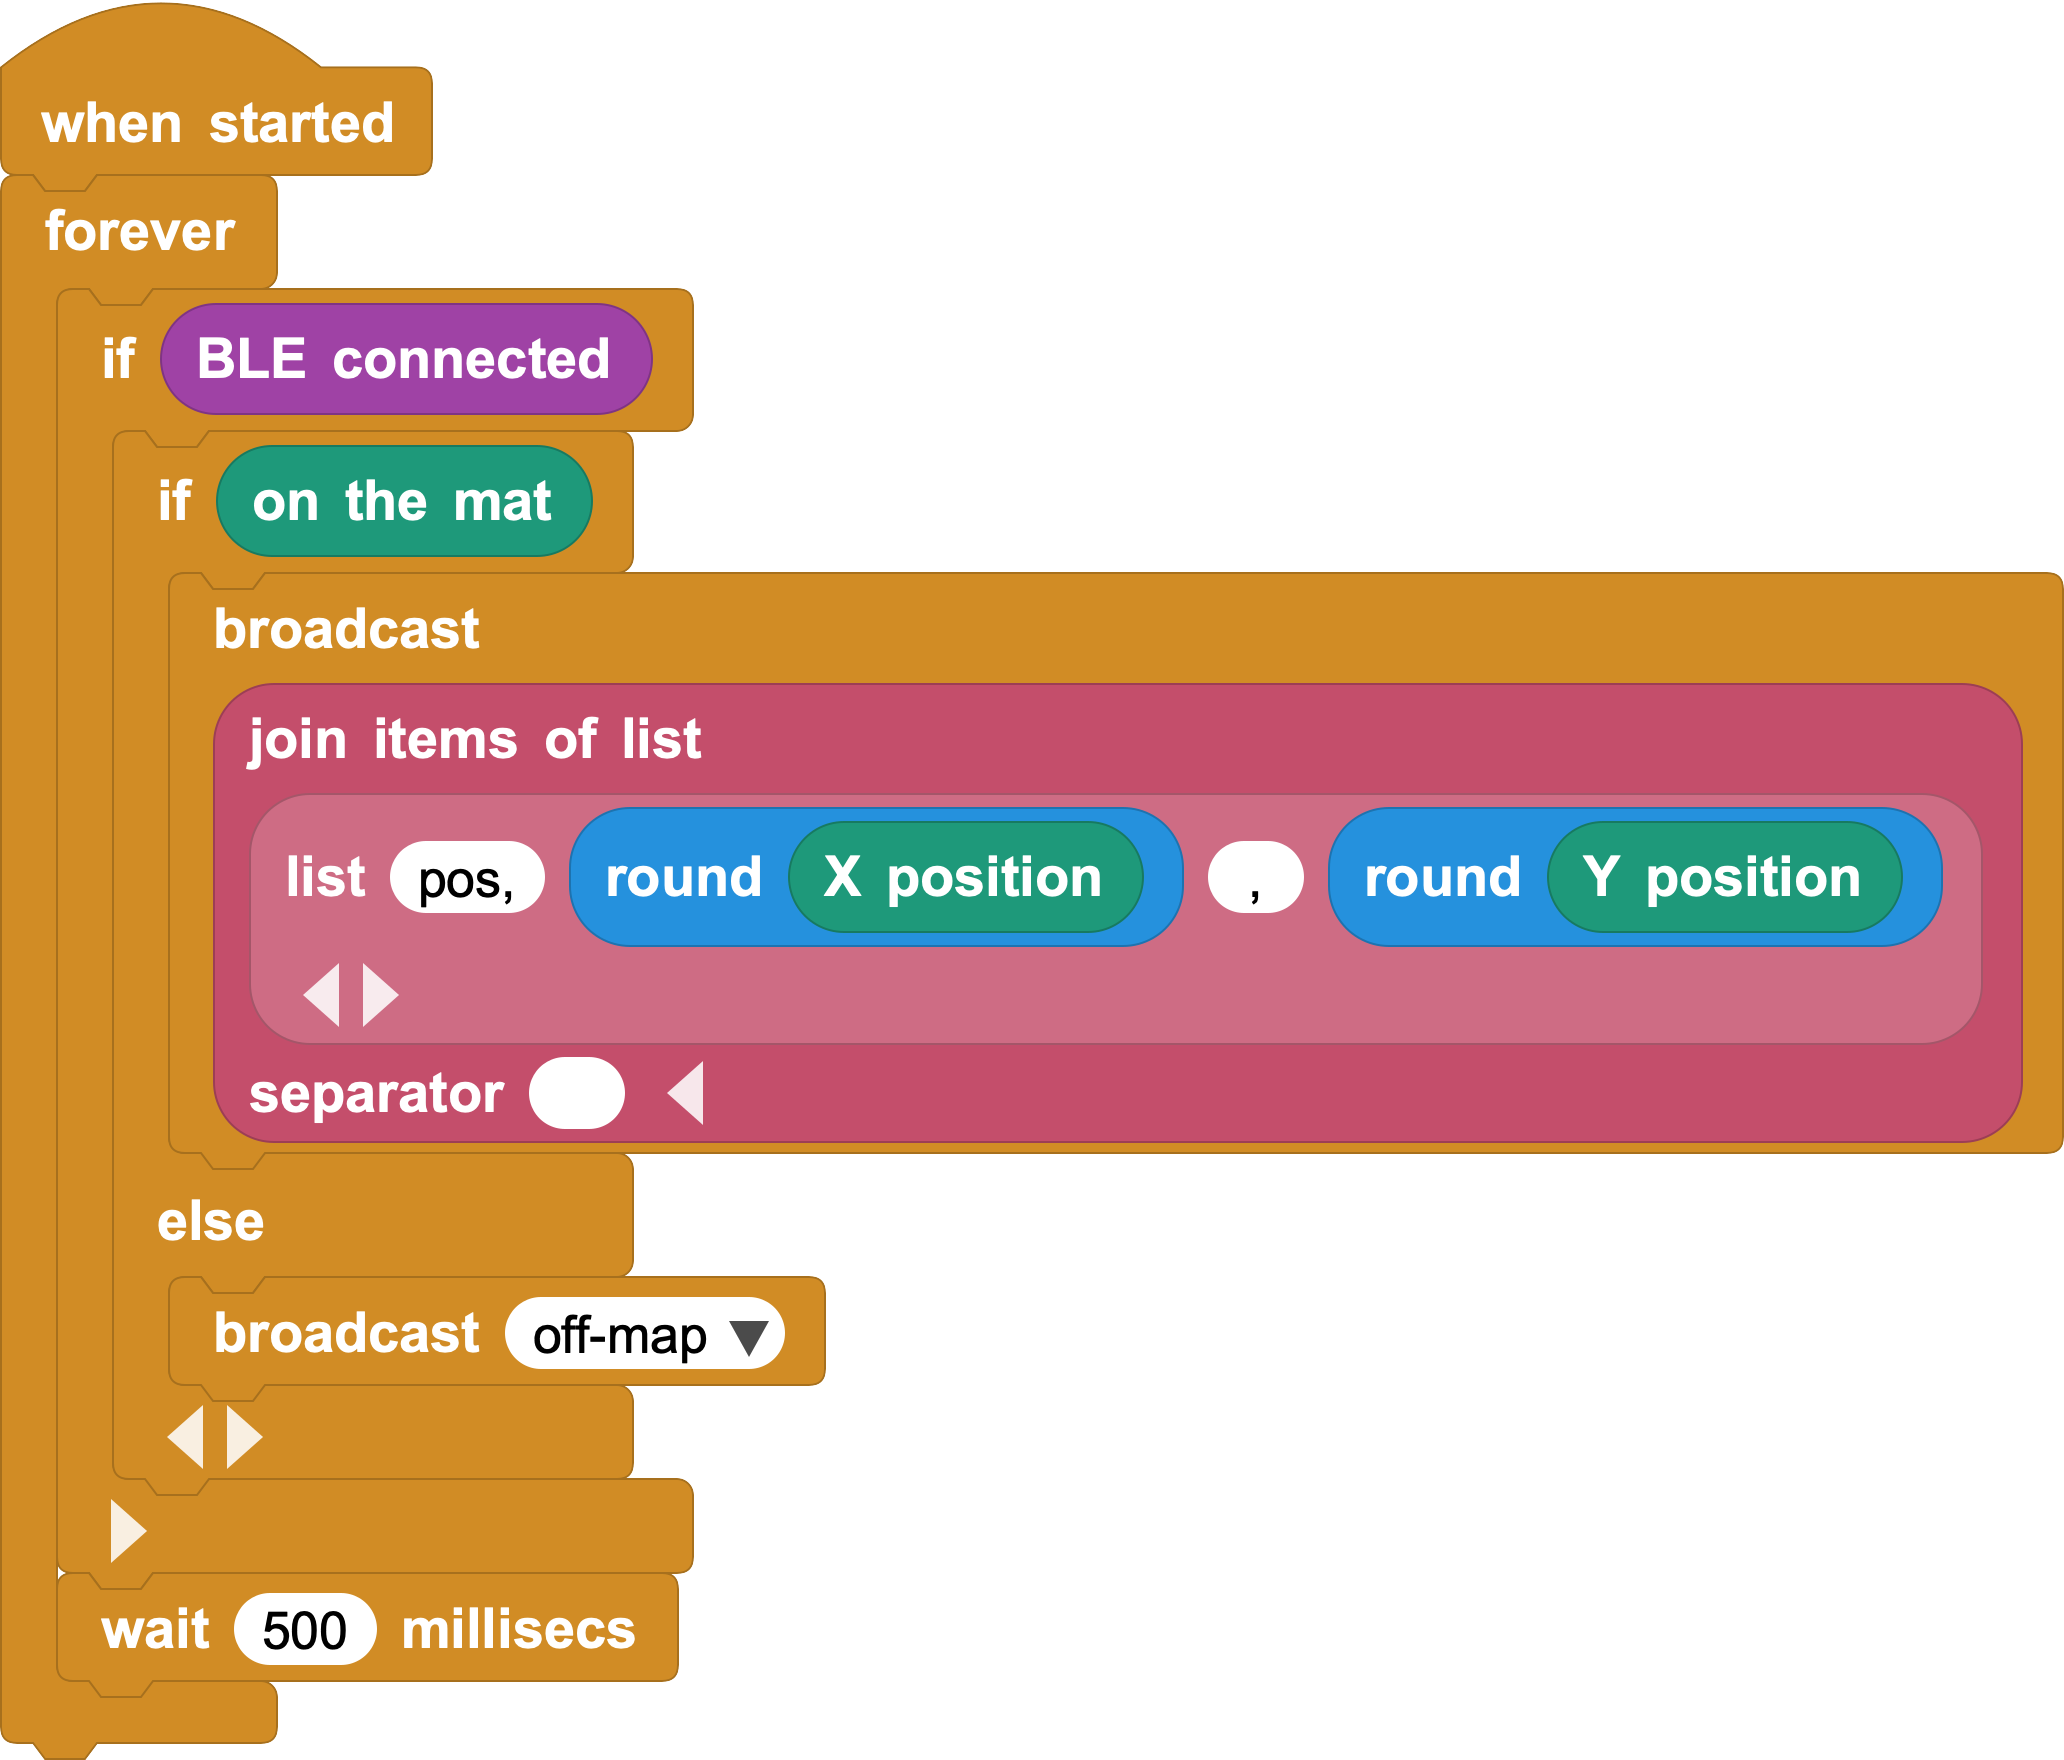
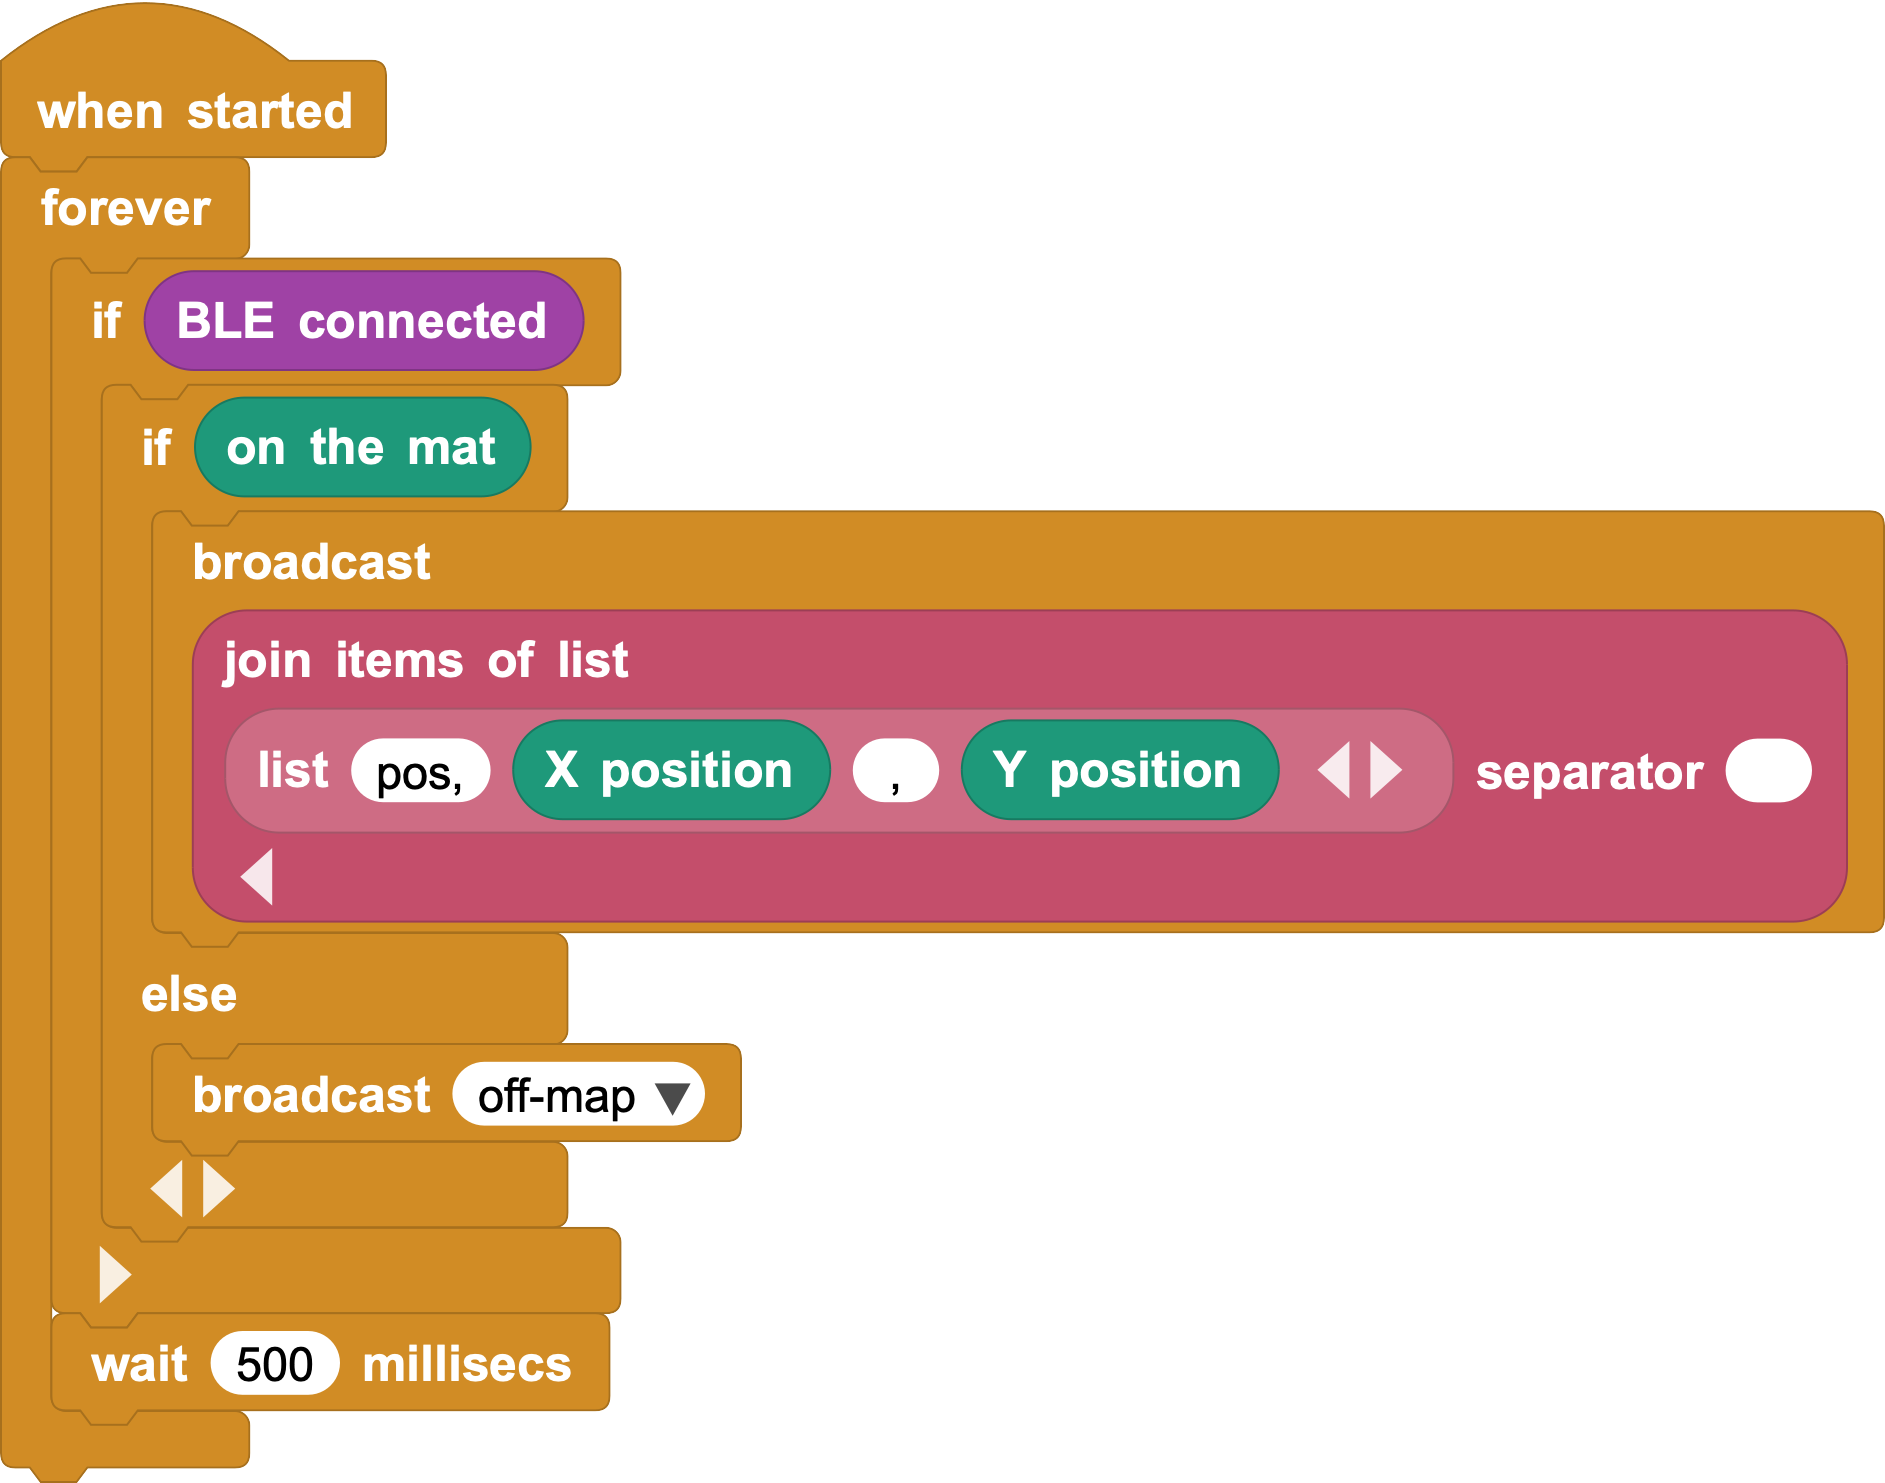
Fix App Inventor block exports and use production CoMap

Changed region(s): [[0.0, 0.031, 1.0, 0.9926], [0.1231, 0.0, 0.1538, 0.031]]

diff --git a/src/scripts/header.js b/src/scripts/header.js
@@ -6,6 +6,7 @@ var menuToggle = function() {
 
   let toggleButton = document.querySelector('.menu-toggle');
   let menu = document.querySelector('.menu');
+  if (!toggleButton || !menu) return;
   var menuVisible = false;
 
   toggleButton.addEventListener('click', function(e) {

diff --git a/data/activities/cocube_appinventor_02_maze_mirror/render-maze-map.py b/data/activities/cocube_appinventor_02_maze_mirror/render-maze-map.py
@@ -1,0 +1,32 @@
+import argparse
+from pathlib import Path
+from zipfile import ZipFile
+
+from PIL import Image
+
+
+activity = Path(__file__).resolve().parent
+files = activity / "files"
+source = files / "comaps-maze-map.png"
+phone = files / "maze-map.png"
+designer = files / "01-designer.png"
+
+parser = argparse.ArgumentParser()
+parser.add_argument("--archive", type=Path)
+args = parser.parse_args()
+
+if args.archive:
+    with ZipFile(args.archive) as archive:
+        source.write_bytes(archive.read(source.name))
+
+with Image.open(source) as image:
+    if image.size != (1000, 698):
+        raise ValueError(f"Unexpected CoMap size: {image.size}")
+    phone_image = image.crop((30, 31, 970, 666)).resize((300, 200), Image.Resampling.LANCZOS)
+    phone_image.save(phone)
+
+with Image.open(designer) as image:
+    if image.size != (1300, 940):
+        raise ValueError(f"Unexpected Designer screenshot size: {image.size}")
+    image.paste(phone_image, (401, 342))
+    image.save(designer)

diff --git a/data/activities/cocube_appinventor_02_maze_mirror/locales/en/index.md b/data/activities/cocube_appinventor_02_maze_mirror/locales/en/index.md
@@ -4,9 +4,9 @@ This time, show CoCube's real movement on the maze map on your phone. Move CoCub
 
 ### 1. Get the maze ready
 
-You will need CoCube, its maze CoMap, an Android phone, and your App Inventor and MicroBlocks projects from the previous activity. Put the CoMap on a flat surface with **A** near the top left. Start by moving CoCube **by hand**, not by pressing Go.
+You will need CoCube, the production maze CoMap, an Android phone, and your App Inventor and MicroBlocks projects from the previous activity. Put the CoMap on a flat surface with **A** near the top left. Start by moving CoCube **by hand**, not by pressing Go.
 
-Here is the [maze image for the phone](maze-map.png). It is 300 × 200 pixels. On this CoMap, X goes from 0 to 300 across the page and Y goes from 0 to 200 down the page. App Inventor's Canvas also starts counting at the top left. That means you can draw a dot using CoCube's `(X, Y)`. Turn the CoMap around, though, and the dot will no longer match CoCube's real position.
+Here is the [maze image for the phone](maze-map.png), cropped from the [production maze map](comaps-maze-map.png) to match its coordinates. It is 300 × 200 pixels. On this CoMap, X goes from 0 to 300 across the page and Y goes from 0 to 200 down the page. App Inventor's Canvas also starts counting at the top left. That means you can draw a dot using CoCube's `(X, Y)`. Turn the CoMap around, though, and the dot will no longer match CoCube's real position.
 
 ### 2. Make CoCube report its position
 
@@ -14,7 +14,7 @@ Open your CoCube program in MicroBlocks. Keep the `smile` and `go` receivers. Ad
 
 ![MicroBlocks script that sends CoCube's position every half-second while it is on the mat](scriptImagePosition.png)
 
-When CoCube is on the mat and connected, it sends a message like `pos,125,62` every 500 milliseconds. `pos` means position; the next two numbers are X and Y. The commas help the phone separate the three parts. Off the mat, CoCube sends `off-map` instead. Before opening the phone app, try the **CoCube on the mat**, **CoCube position_X**, and **CoCube position_Y** blocks in MicroBlocks while CoCube is on the CoMap. Do the numbers change as you move it by hand?
+When CoCube is on the mat and connected, it sends a message like `pos,125.5,62.25` every 500 milliseconds. `pos` means position; the next two numbers are X and Y, which can have decimal places. The commas help the phone separate the three parts. Off the mat, CoCube sends `off-map` instead. Before opening the phone app, try the **CoCube on the mat**, **CoCube position_X**, and **CoCube position_Y** blocks in MicroBlocks while CoCube is on the CoMap. Do the numbers change as you move it by hand?
 
 Make sure the new script is running on CoCube. Then disconnect MicroBlocks from CoCube so your phone can connect to it.
 
